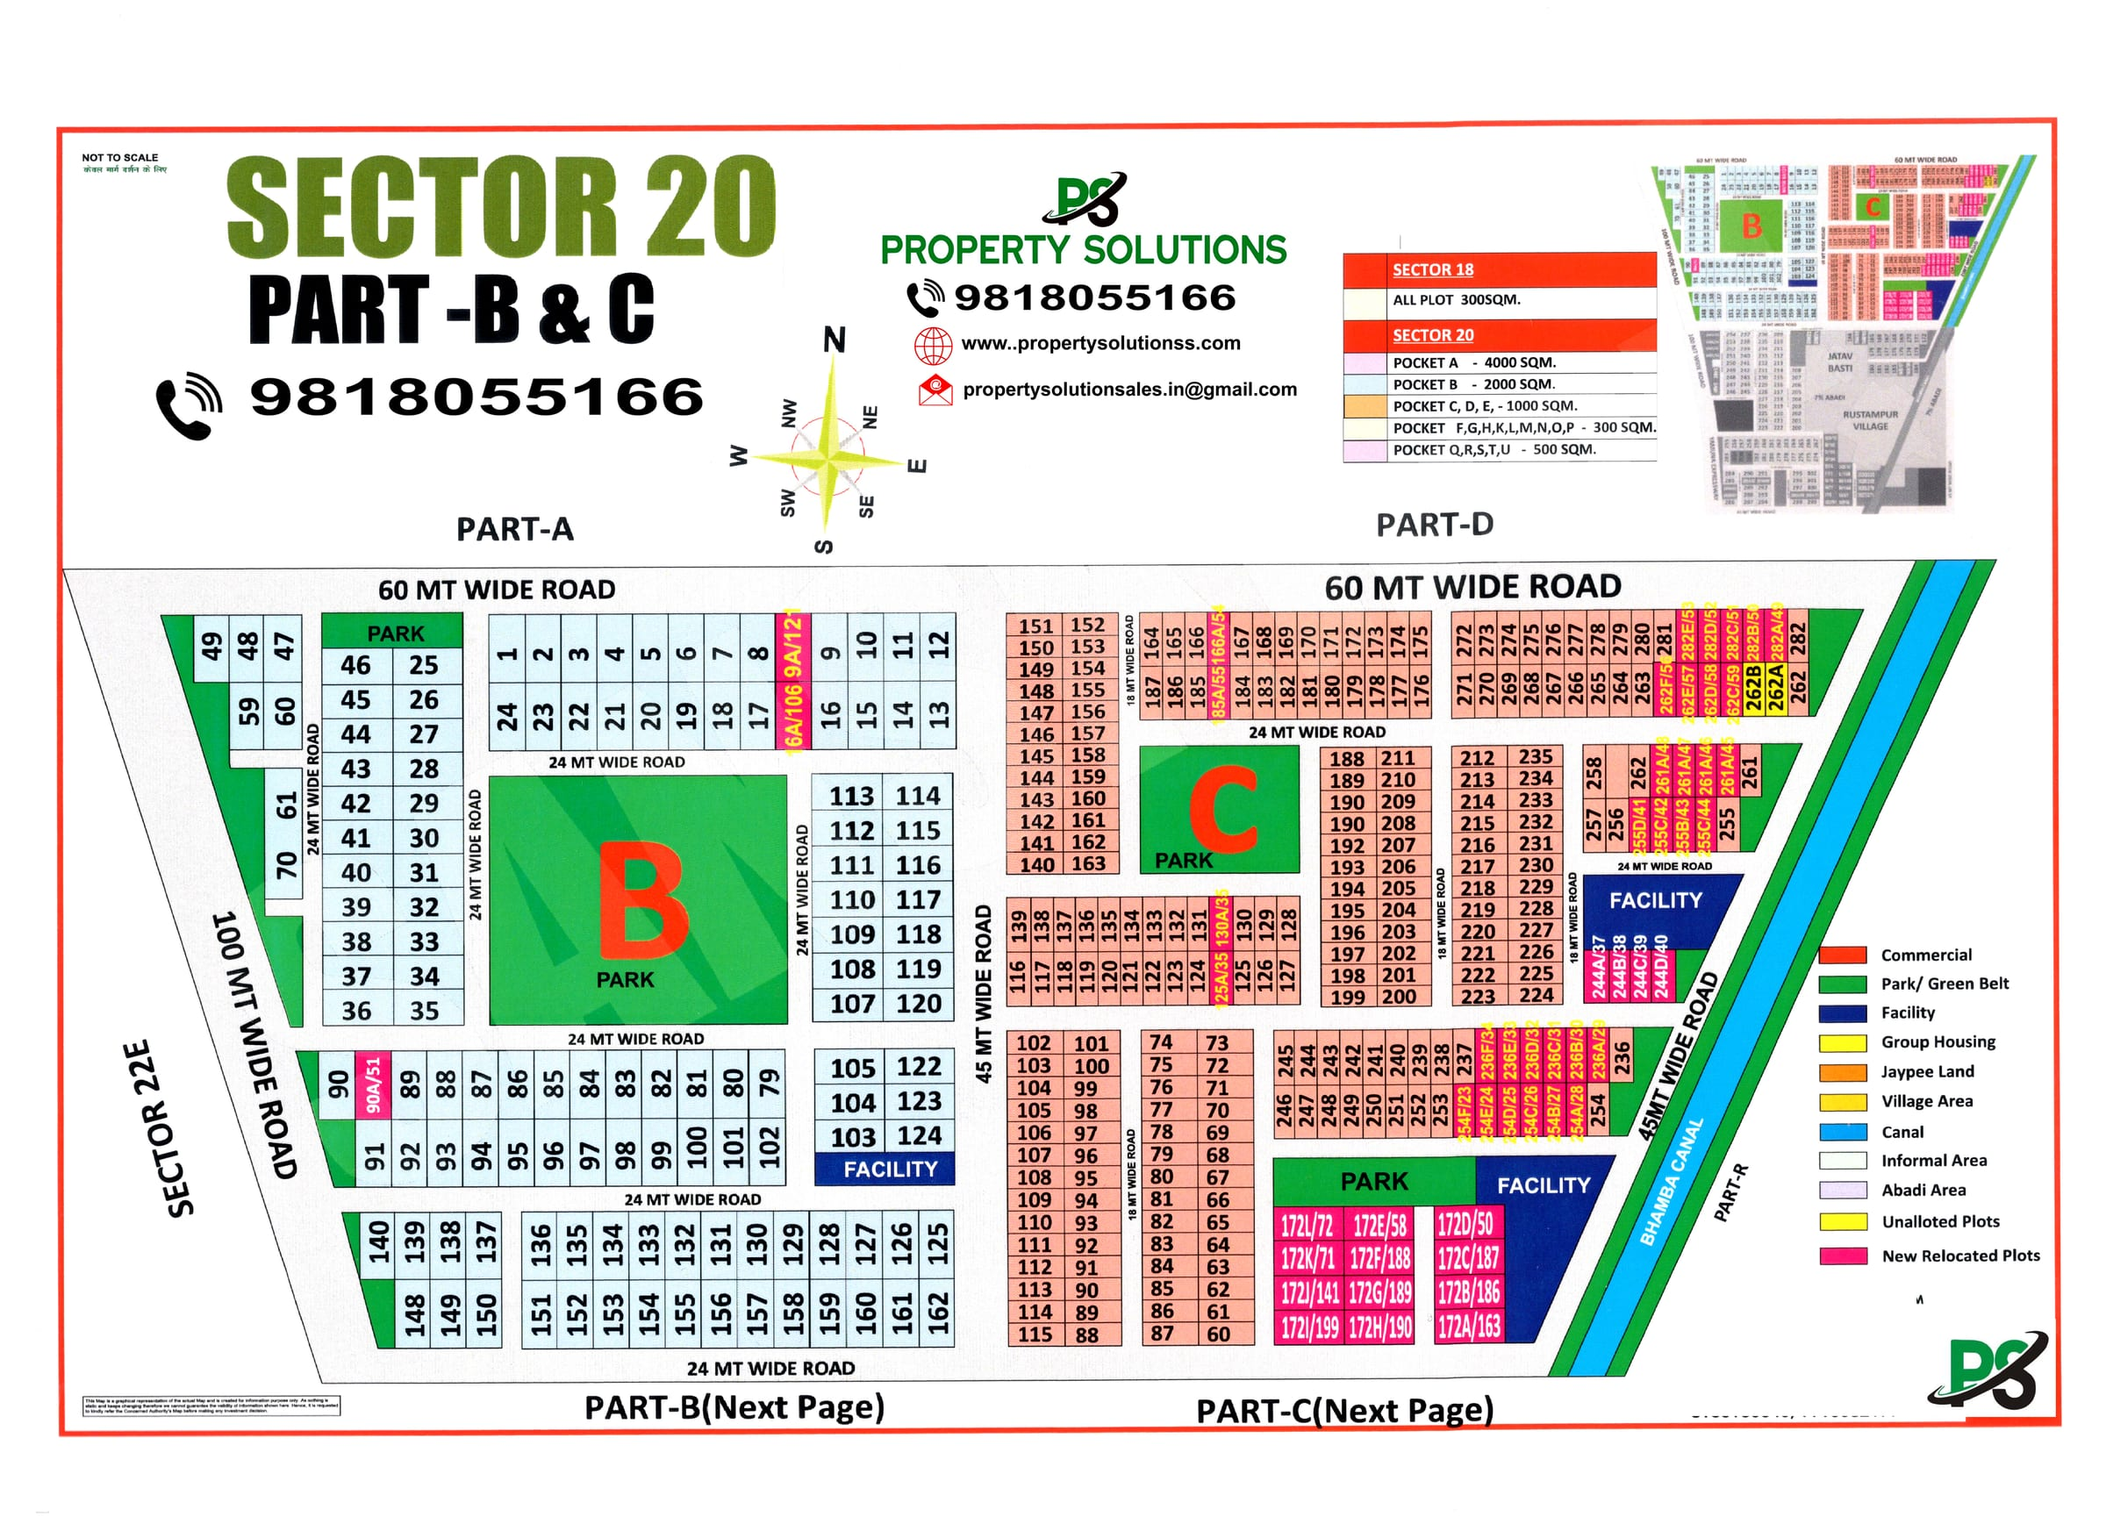
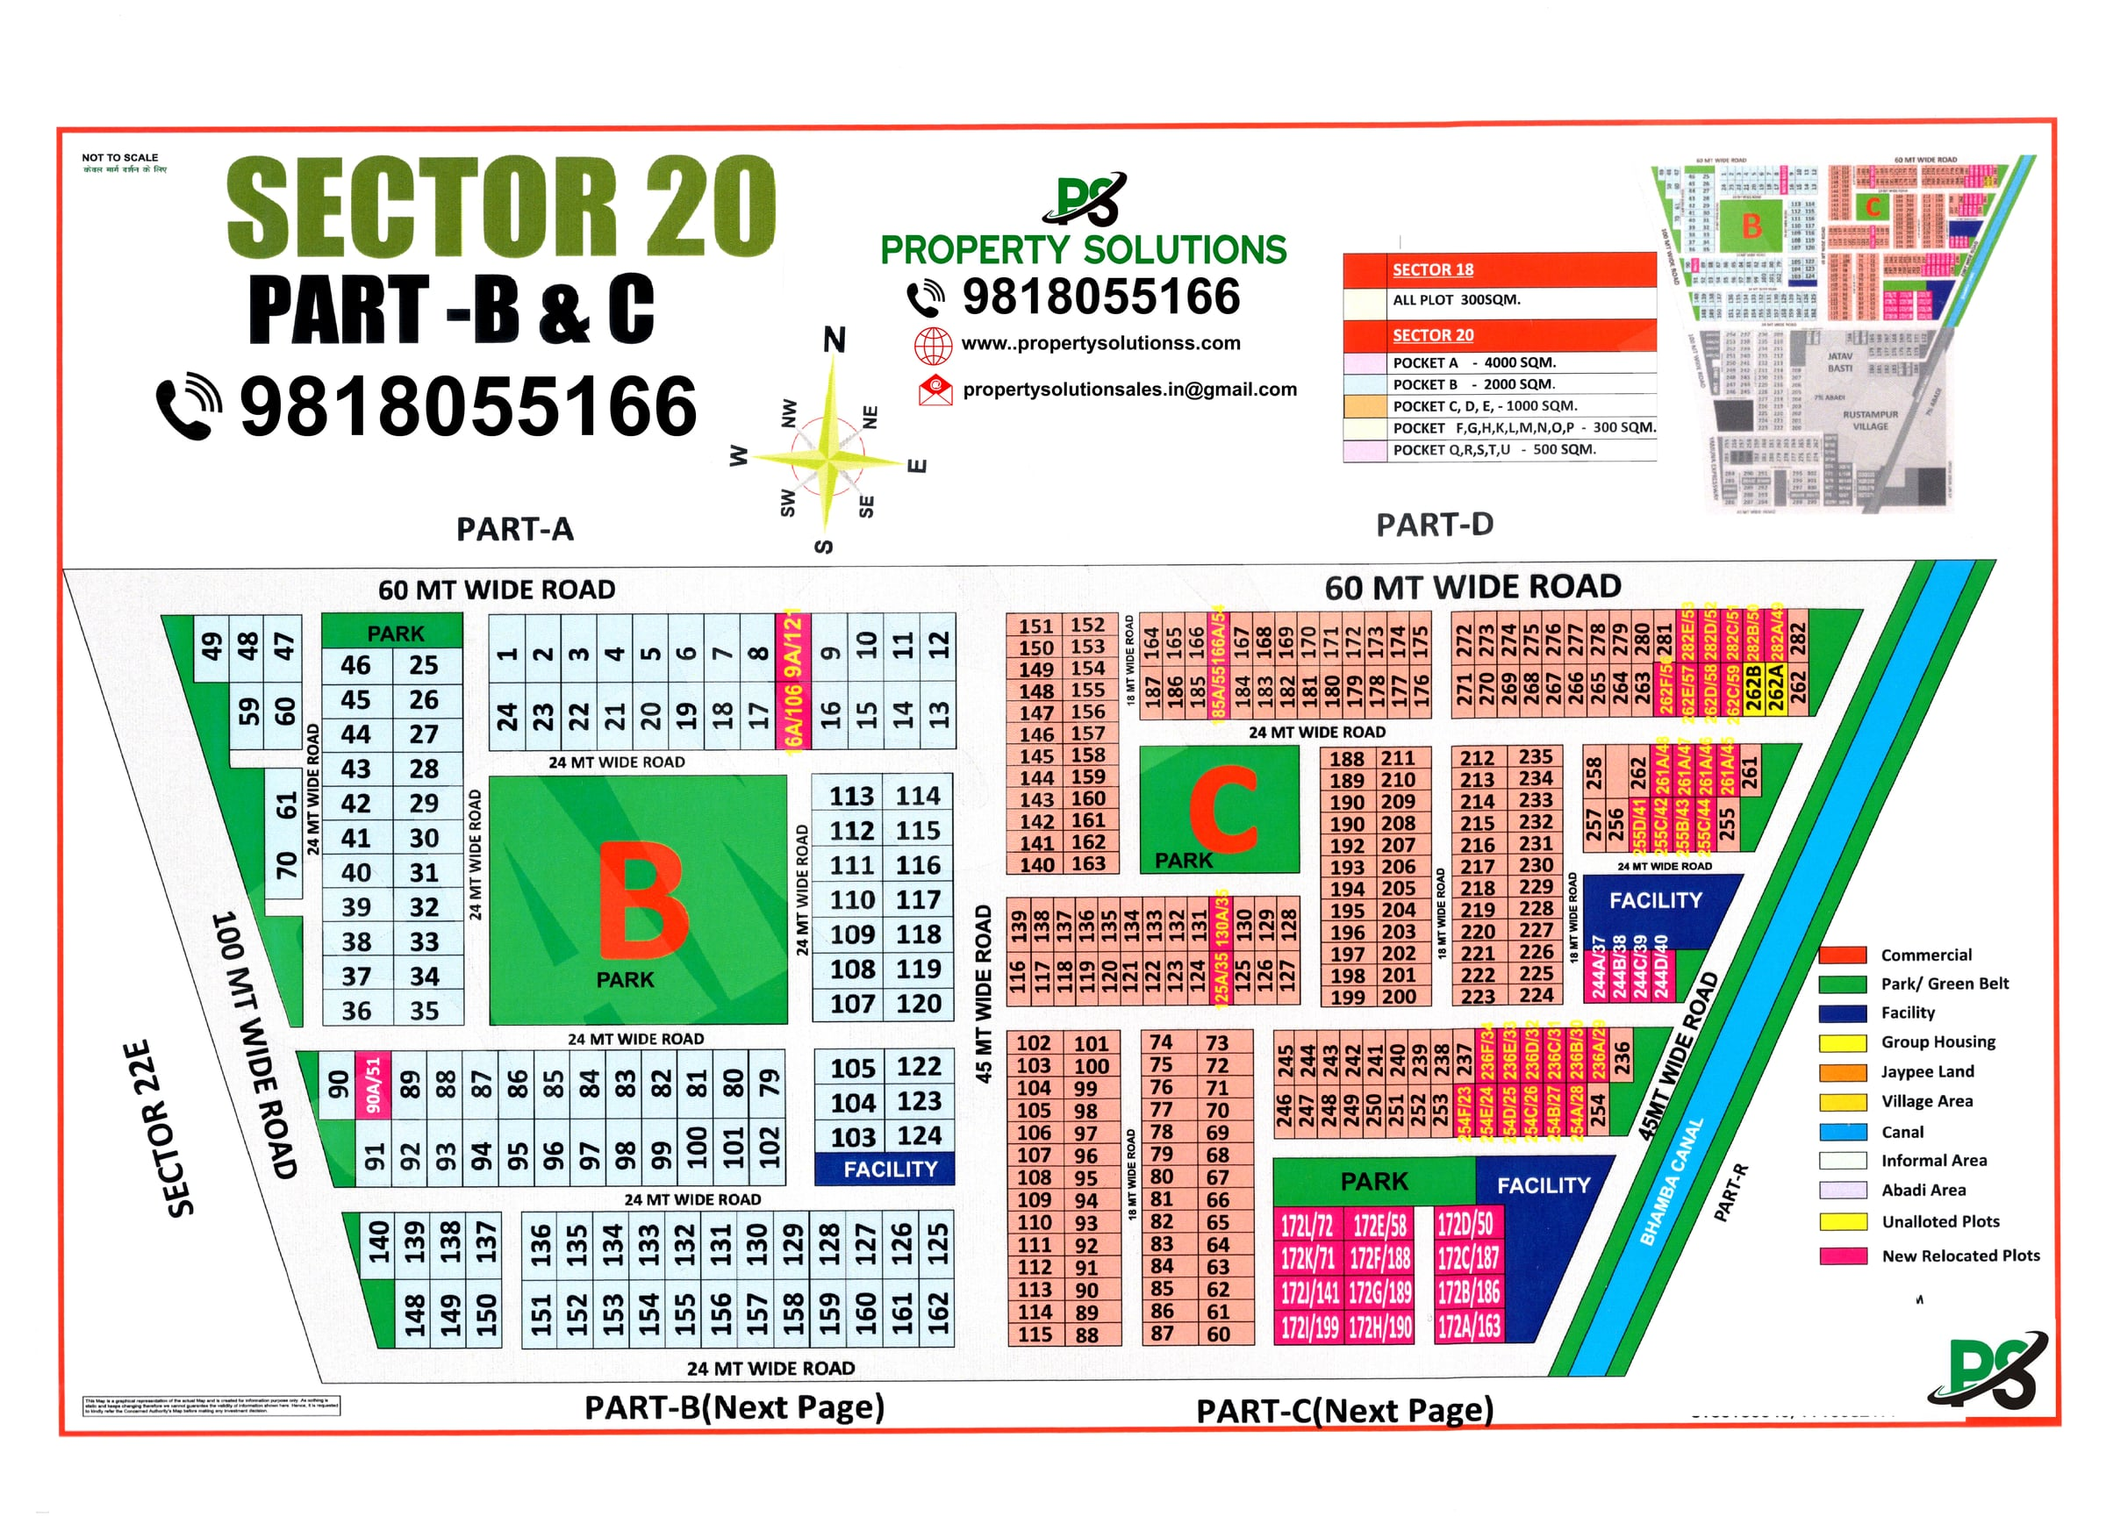
carry the map, card and sequence changes over from the Greater Noida repo
Maps: SECTOR 18 PART-J added (177), SIGMA-IV re-scanned with the current phone
number, SECTOR 20 PART-B AND C replaced with the HD scan.

Sequence: abadi and village sheets no longer interleave with the sector plans,
a two-sector sheet closes its first sector's run, RESIDENTIAL sheets file as
residential, and each category carries Shiva's own heading.

Card: no lift or zoom on hover, no View map / Download row. Grid drops
content-visibility, which was sizing cards against a guessed height.

Map page: Previous/Next pager and the Nearby grid removed, RelatedMaps deleted.

Not carried over: the /maps hub redesign, the home-page sections and the
authority logos — those are Greater Noida's layout, not this site's.

Changed region(s): [[0.0938, 0.2476, 0.3438, 0.3095], [0.4375, 0.1857, 0.5938, 0.2166]]

diff --git a/src/lib/maps.ts b/src/lib/maps.ts
@@ -985,6 +985,13 @@ export const mapData = {
 				"Authority layout plan for SECTOR 18 PART-I in the Yamuna Expressway (YEIDA), showing plot numbers, pocket divisions, road widths, park and facility reservations. Free to view and download at full resolution.",
 		},
 		{
+			id: "sector-18-part-j",
+			name: "SECTOR 18 PART-J",
+			imageUrl: "/maps/yamuna-expressway/SECTOR 18 PART-J.jpg",
+			description:
+				"Authority layout plan for SECTOR 18 PART-J in the Yamuna Expressway (YEIDA), showing plot numbers, pocket divisions, road widths, park and facility reservations. Free to view and download at full resolution.",
+		},
+		{
 			id: "sector-18-pocket-7d",
 			name: "SECTOR 18 POCKET-7D",
 			imageUrl: "/maps/yamuna-expressway/SECTOR 18 POCKET-7D.jpg",
@@ -1278,12 +1285,35 @@ const CATEGORY: { rank: number; test: RegExp }[] = [
 
 const SECTOR_RE = /^(PART\s+)?SECTOR[\s-]*\d/i;
 
+/**
+ * A sheet that says RESIDENTIAL on it is housing, whatever else is in the name.
+ * Without this, "UPSIDC SURAJPUR SITE-C RESIDENTIAL" matches SURAJPUR and files
+ * itself under industrial. Abadi and village sheets keep their own category —
+ * "7 PERCENT RESIDENTIAL PLOTS …" belongs with the villages, not the sectors.
+ */
+const RESIDENTIAL_RE = /RESIDENTIAL/i;
+const VILLAGE_RE = /ABADI|VILLAGE|VILL\.|^\d+\s*PERCENT/i;
+
 /** 0 = numbered sector, 1 = named residential sector, 2+ = see CATEGORY. */
 function categoryRank(name: string, sectorsLead: boolean): number {
+	// Abadi and village sheets are village sheets even when the name opens with
+	// a sector ("PART SECTOR-17 ABADI VILLAGE DHANAURI"). This has to beat the
+	// sector test or they interleave with the sector plans, which is not how
+	// Shiva Associates list them — their sector pages carry no village sheets.
+	if (VILLAGE_RE.test(name)) return 4;
 	if (SECTOR_RE.test(name)) return sectorsLead ? 0 : 1;
+	if (RESIDENTIAL_RE.test(name)) return 1;
 	for (const { rank, test } of CATEGORY) if (test.test(name)) return rank;
 	return 1;
 }
+
+/**
+ * A sheet covering two sectors ("SECTOR 18 AND 20", "SECTOR 24-A AND SECTOR
+ * 22-E"). Shiva list these last within their first sector number, after the
+ * single-sector parts. Anchored right after the sector number so the many
+ * "PART-7A AND 7E" / "PART-K AND L" names do not match.
+ */
+const COMBINED_RE = /^SECTOR[\s-]*\d+\s*(-\s*[A-Z])?\s+AND\s+(SECTOR[\s-]*)?\d/i;
 
 /** Leading sector number, so SECTOR 20 follows SECTOR 18 rather than SECTOR 2. */
 function sectorNumber(name: string): number {
@@ -1311,14 +1341,42 @@ function compareMaps(a: MapItem, b: MapItem, sectorsLead: boolean): number {
 		const na = sectorNumber(a.name);
 		const nb = sectorNumber(b.name);
 		if (na !== nb) return na - nb;
+		// Same sector: the two-sector sheet closes the run.
+		const ca = Number(COMBINED_RE.test(a.name));
+		const cb = Number(COMBINED_RE.test(b.name));
+		if (ca !== cb) return ca - cb;
 	}
 	return natural(a.name, b.name);
 }
 
+/**
+ * Heading each category sits under, named the way Shiva Associates name theirs:
+ * their Greater Noida page splits into "Residential Map Greater Noida" and
+ * "Industrial Map Greater Noida", and they caption the region plan "Master Plan
+ * Greater Noida". Indexes match the ranks in CATEGORY / categoryRank, so the
+ * labels and the sort cannot drift apart.
+ *
+ * Ranks 0 and 1 share a label on purpose — numbered sectors and named sectors
+ * are both residential, so they run together as one block, as on their pages.
+ */
+const GROUP_LABEL = [
+	"Residential Map",
+	"Residential Map",
+	"Industrial Map",
+	"Institutional Map",
+	"Village & Abadi Map",
+	"Master Plan",
+];
+
 const sorted = (key: AreaKey): MapItem[] => {
 	const maps = mapData[key] as MapItem[];
 	const lead = sectorsDominate(maps);
-	return [...maps].sort((a, b) => compareMaps(a, b, lead));
+	return [...maps]
+		.sort((a, b) => compareMaps(a, b, lead))
+		.map((m) => ({
+			...m,
+			group: `${GROUP_LABEL[categoryRank(m.name, lead)]} ${AREAS[key].name}`,
+		}));
 };
 
 const ORDERED = Object.fromEntries(
@@ -1329,11 +1387,16 @@ const ORDERED = Object.fromEntries(
  * Only the regions this deployment owns. Greater Noida and Yamuna Expressway
  * are split across the two sites so neither publishes the other's map pages.
  */
+/** The region's own master plan is the honest cover; fall back to the first map. */
+const coverFor = (key: AreaKey) =>
+	(ORDERED[key].find((m) => /^MASTER PLAN/i.test(m.name)) ?? ORDERED[key][0])
+		.imageUrl;
+
 export const AREA_LIST = SITE.areas.map((key) => ({
 	key,
 	...AREAS[key],
 	count: ORDERED[key].length,
-	cover: ORDERED[key][0].imageUrl,
+	cover: coverFor(key),
 }));
 
 type Area = (typeof AREA_LIST)[number];

diff --git a/src/components/MapCard.tsx b/src/components/MapCard.tsx
@@ -3,10 +3,14 @@ import { thumbUrl, type MapItem } from "@/lib/map-utils";
 
 /**
  * Card layout mirrors Shiva Associates' map grid: framed thumbnail with a solid
- * label bar underneath carrying the sector name. Their bar is black on red; the
- * client asked for white and green, so the bar is brand green.
+ * label bar underneath carrying the sector name, and nothing else. Their bar is
+ * black on red; the client asked for white and green, so the bar is brand green.
  *
- * The thumbnail is a prebuilt ~28KB webp (`pnpm img`), so the grid never touches
+ * The whole card is the link. Download lives on the map's own page, where the
+ * full-resolution plan is on screen to download — a second row of View/Download
+ * links under every card only crowded the grid.
+ *
+ * The thumbnail is a prebuilt ~25KB webp (`pnpm img`), so the grid never touches
  * the 2400px originals and never hits the image optimizer.
  */
 export default function MapCard({
@@ -20,8 +24,11 @@ export default function MapCard({
 }) {
 	const href = `/maps/${areaSlug}/${map.id}`;
 
+	// Hover stays still: these are dense scans, so lifting the card or zooming
+	// the plan makes the grid jump and crops the frame off the artwork. The cue
+	// is the ring and shadow deepening instead.
 	return (
-		<article className="group flex h-full flex-col overflow-hidden rounded-lg bg-white shadow-(--shadow-soft) ring-1 ring-sand-200 transition-[transform,box-shadow] duration-300 ease-(--ease-out-soft) hover:-translate-y-1 hover:shadow-(--shadow-lift) focus-within:-translate-y-1">
+		<article className="group flex h-full flex-col overflow-hidden rounded-lg bg-white shadow-(--shadow-soft) ring-1 ring-sand-200 transition-[box-shadow,--tw-ring-color] duration-200 ease-(--ease-out-soft) hover:shadow-(--shadow-lift) hover:ring-brand-400 focus-within:shadow-(--shadow-lift) focus-within:ring-brand-500">
 			<Link href={href} className="block overflow-hidden bg-white p-1.5">
 				<span className="block aspect-4/3 overflow-hidden rounded-sm ring-1 ring-sand-200">
 					{/* eslint-disable-next-line @next/next/no-img-element -- prebuilt 480px webp thumbnail. */}
@@ -33,7 +40,7 @@ export default function MapCard({
 						loading={eager ? "eager" : "lazy"}
 						fetchPriority={eager ? "high" : "auto"}
 						decoding="async"
-						className="h-full w-full bg-white object-contain transition-transform duration-500 ease-(--ease-out-soft) group-hover:scale-105"
+						className="h-full w-full bg-white object-contain"
 					/>
 				</span>
 			</Link>
@@ -48,19 +55,6 @@ export default function MapCard({
 				</span>
 			</Link>
 
-			<div className="flex items-center justify-between gap-2 px-3 py-2 text-[0.65rem] font-semibold tracking-wide uppercase">
-				<Link href={href} className="text-brand-700 hover:text-brand-900">
-					View map
-				</Link>
-				{/* Native download — same-origin, so no JS and no client bundle. */}
-				<a
-					href={map.imageUrl}
-					download={map.name}
-					className="text-brand-900/45 hover:text-brand-700"
-				>
-					Download
-				</a>
-			</div>
 		</article>
 	);
 }

diff --git a/src/components/MapGrid.tsx b/src/components/MapGrid.tsx
@@ -46,6 +46,19 @@ export default function MapGrid({
 		return maps.filter((m) => m.name.toLowerCase().includes(q));
 	}, [maps, deferred]);
 
+	// The list arrives already ordered by category, so a run of equal `group`
+	// values is a section — no second sort, and a filtered list just yields
+	// shorter runs with the empty categories gone.
+	const sections = useMemo(() => {
+		const out: { group?: string; items: GridItem[] }[] = [];
+		for (const m of results) {
+			const last = out.at(-1);
+			if (last && last.group === m.group) last.items.push(m);
+			else out.push({ group: m.group, items: [m] });
+		}
+		return out;
+	}, [results]);
+
 	return (
 		<>
 			<div className="sticky top-[var(--header-h,8rem)] z-30 -mx-4 mb-8 bg-sand-50/85 px-4 py-3 backdrop-blur-md sm:-mx-6 sm:px-6">
@@ -84,26 +97,43 @@ export default function MapGrid({
 					No layout plan matches “{query.trim()}”.
 				</p>
 			) : (
-				<div
-					className={`grid grid-cols-2 gap-4 sm:gap-5 ${
-						columns === 3 ? "lg:grid-cols-3" : "lg:grid-cols-4"
-					}`}
-				>
-					{results.map((map, i) => (
-						// content-visibility lets the browser skip layout/paint for
-						// offscreen cards — the difference between smooth and janky at 179.
-						<div
-							key={map.id}
-							className="h-full [contain-intrinsic-size:auto_320px] [content-visibility:auto]"
-						>
-							<MapCard
-								map={map}
-								areaSlug={map.area?.slug ?? areaSlug ?? ""}
-								eager={i < 10}
-							/>
-						</div>
-					))}
-				</div>
+				sections.map((section, s) => {
+					// Index across the whole list, so only the real first screen is eager.
+					const offset = sections
+						.slice(0, s)
+						.reduce((n, x) => n + x.items.length, 0);
+					return (
+						<section key={section.group ?? s} className={s ? "mt-12" : ""}>
+							{section.group && (
+								<h2 className="mb-5 flex items-baseline gap-3 text-xl font-extrabold tracking-tight text-brand-950 sm:text-2xl">
+									{section.group}
+									<span className="text-sm font-medium text-brand-900/45 tabular-nums">
+										{section.items.length}
+									</span>
+								</h2>
+							)}
+							<div
+								className={`grid grid-cols-2 gap-4 sm:gap-5 ${
+									columns === 3 ? "lg:grid-cols-3" : "lg:grid-cols-4"
+								}`}
+							>
+								{section.items.map((map, i) => (
+									// No content-visibility here. Skipped cards reserve a guessed
+									// 320px against a real 286px, so rows resized as you scrolled
+									// and a card could paint at the wrong box — a square corner
+									// poking out of the rounded card. The thumbnails are lazy
+									// 25KB webps, which is the part that actually mattered.
+									<MapCard
+										key={map.id}
+										map={map}
+										areaSlug={map.area?.slug ?? areaSlug ?? ""}
+										eager={offset + i < 10}
+									/>
+								))}
+							</div>
+						</section>
+					);
+				})
 			)}
 		</>
 	);

diff --git a/src/app/maps/[area]/[mapId]/page.tsx b/src/app/maps/[area]/[mapId]/page.tsx
@@ -2,13 +2,12 @@ import type { Metadata } from "next";
 import Image from "next/image";
 import Link from "next/link";
 import { notFound } from "next/navigation";
-import { ArrowLeft, ArrowRight, ChevronRight, Download, Maximize2 } from "lucide-react";
-import { AREA_LIST, getArea, getMaps, mapData, relatedMaps } from "@/lib/maps";
+import { ChevronRight, Download, Maximize2 } from "lucide-react";
+import { AREA_LIST, getArea, getMaps, mapData } from "@/lib/maps";
 import { thumbUrl } from "@/lib/map-utils";
 import { localityFor, mapEmbedUrl } from "@/lib/locality";
 import { SITE_NAME } from "@/lib/site";
 import JsonLd, { breadcrumbs } from "@/components/JsonLd";
-import RelatedMaps from "@/components/RelatedMaps";
 import ContactSection from "@/components/ContactSection";
 
 export const dynamicParams = false;
@@ -55,8 +54,6 @@ export default async function MapDetailPage({
 	if (index === -1) notFound();
 
 	const map = maps[index];
-	const prev = maps[index - 1];
-	const next = maps[index + 1];
 	const locality = localityFor(area.key);
 
 	return (
@@ -203,56 +200,6 @@ export default async function MapDetailPage({
 						className="block h-[22rem] w-full border-4 border-t-0 border-brand-800 sm:h-[28rem]"
 					/>
 				</section>
-
-				<nav
-					aria-label="Nearby layout plans"
-					className="mt-10 grid gap-3 sm:grid-cols-2"
-				>
-					{prev ? (
-						<Link
-							href={`/maps/${slug}/${prev.id}`}
-							rel="prev"
-							className="group flex items-center gap-3 rounded border border-sand-200 bg-white p-4 transition-colors hover:border-brand-400"
-						>
-							<ArrowLeft
-								aria-hidden
-								className="size-4 shrink-0 text-brand-600 transition-transform group-hover:-translate-x-1"
-							/>
-							<span className="min-w-0">
-								<span className="block text-xs text-brand-900/45">Previous</span>
-								<span className="line-clamp-1 text-sm font-medium text-brand-950">
-									{prev.name}
-								</span>
-							</span>
-						</Link>
-					) : (
-						<span />
-					)}
-					{next && (
-						<Link
-							href={`/maps/${slug}/${next.id}`}
-							rel="next"
-							className="group flex items-center justify-end gap-3 rounded border border-sand-200 bg-white p-4 text-right transition-colors hover:border-brand-400 sm:col-start-2"
-						>
-							<span className="min-w-0">
-								<span className="block text-xs text-brand-900/45">Next</span>
-								<span className="line-clamp-1 text-sm font-medium text-brand-950">
-									{next.name}
-								</span>
-							</span>
-							<ArrowRight
-								aria-hidden
-								className="size-4 shrink-0 text-brand-600 transition-transform group-hover:translate-x-1"
-							/>
-						</Link>
-					)}
-				</nav>
-
-				<RelatedMaps
-					maps={relatedMaps(slug, mapId)}
-					areaSlug={slug}
-					areaName={area.name}
-				/>
 
 				<JsonLd
 					data={breadcrumbs([

diff --git a/src/lib/map-utils.ts b/src/lib/map-utils.ts
@@ -9,6 +9,8 @@ export type MapItem = {
 	name: string;
 	imageUrl: string;
 	description: string;
+	/** Category heading this map sits under; set by the ordering in `@/lib/maps`. */
+	group?: string;
 };
 
 export type AreaSummary = {
